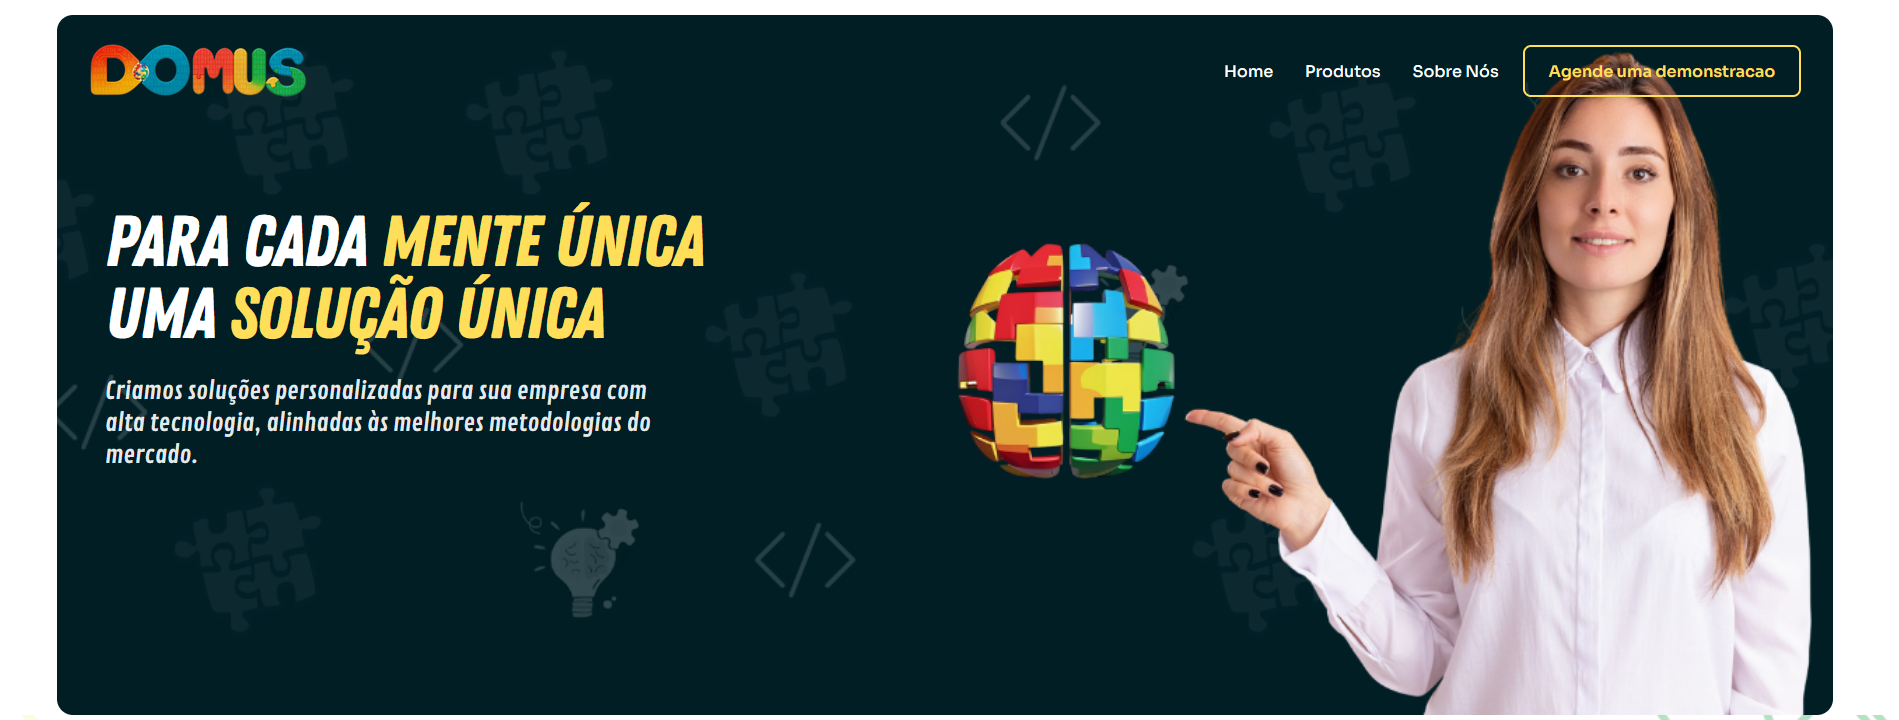
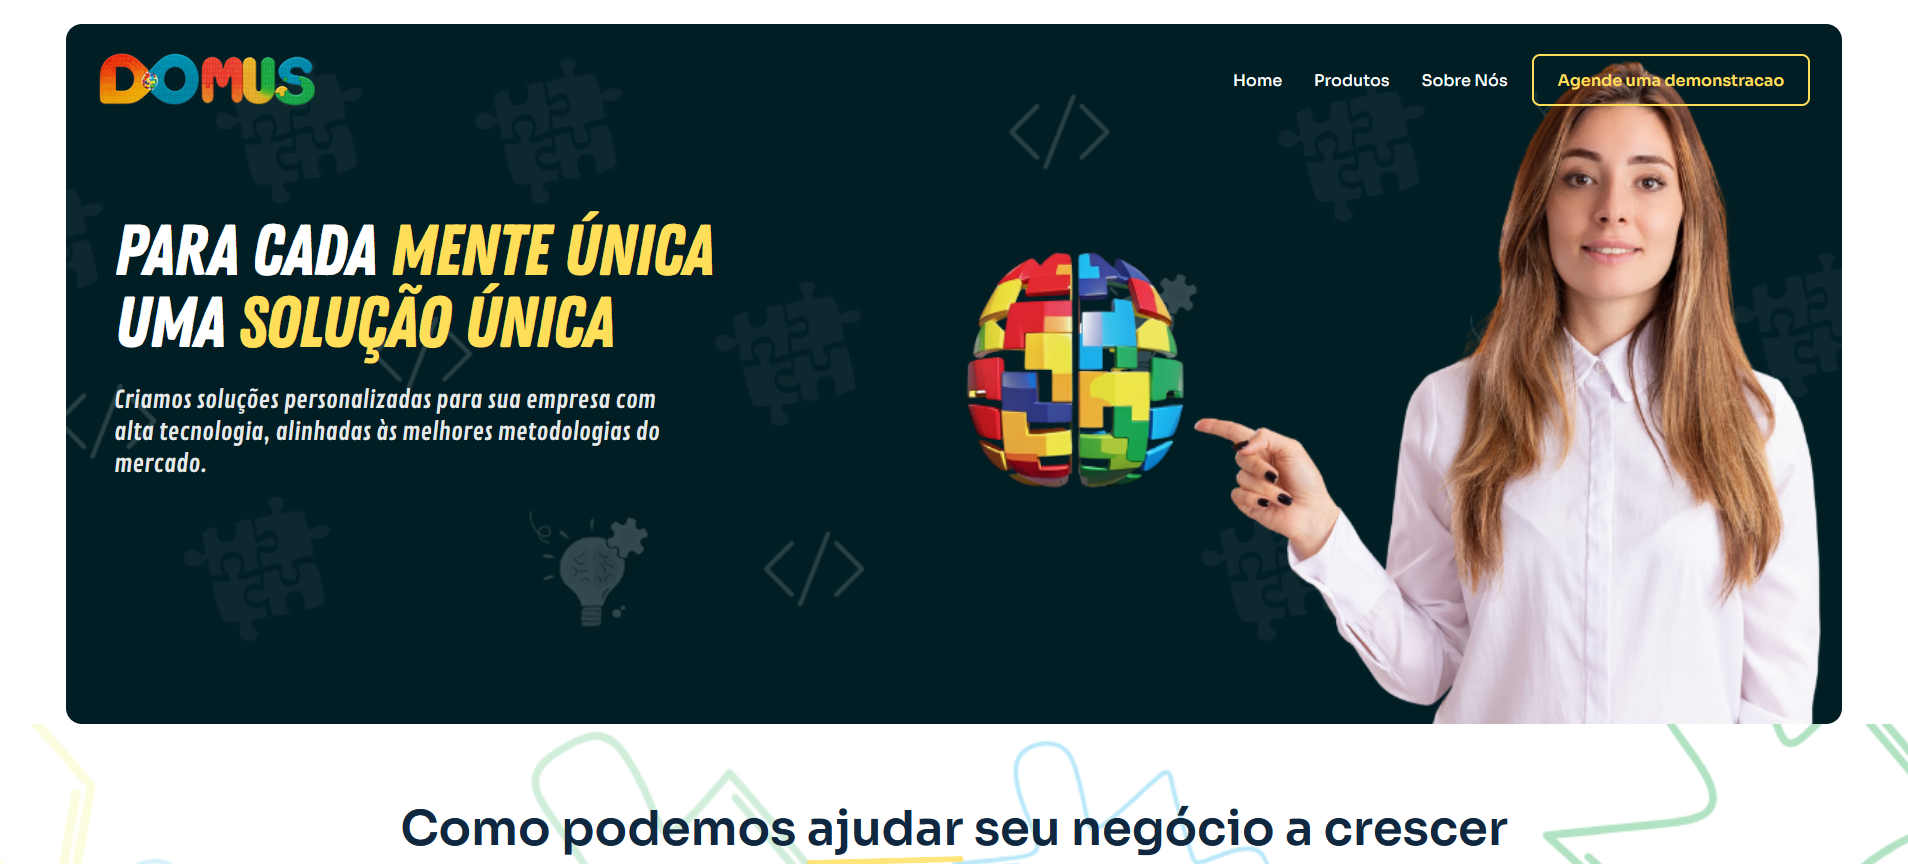
a

diff --git a/src/components/organisms/ProjectsSection.tsx b/src/components/organisms/ProjectsSection.tsx
@@ -1,6 +1,6 @@
-import { motion, useScroll, useTransform } from "framer-motion"
-import { ArrowUpRight } from "lucide-react"
-import { useRef } from "react"
+import { motion, useScroll, useTransform } from "framer-motion";
+import { ArrowUpRight } from "lucide-react";
+import { useRef } from "react";
 
 const projects = [
   {
@@ -9,7 +9,8 @@ const projects = [
     href: "https://domusdev.com.br/",
     domain: "domusdev.com.br",
     category: "Full Stack",
-    description: "Site institucional criado para uma software house especializada na criação de sistemas web sob medida. O projeto visa destacar os serviços, soluções de alta performance e excelência técnica no desenvolvimento.",
+    description:
+      "Site institucional criado para uma software house especializada na criação de sistemas web sob medida. O projeto visa destacar os serviços, soluções de alta performance e excelência técnica no desenvolvimento.",
   },
   {
     id: "autocom3",
@@ -17,7 +18,8 @@ const projects = [
     href: "https://autocom3.com.br/",
     domain: "autocom3.com.br",
     category: "Software ERP",
-    description: "Site institucional criado para empresa especializada em sistemas ERP para o varejo. A estrutura foi planejada para apresentar soluções, módulos e diferenciais da plataforma de forma clara e objetiva.",
+    description:
+      "Site institucional criado para empresa especializada em sistemas ERP para o varejo. A estrutura foi planejada para apresentar soluções, módulos e diferenciais da plataforma de forma clara e objetiva.",
   },
   {
     id: "sivis",
@@ -25,7 +27,8 @@ const projects = [
     href: "https://sivis.com.br/",
     domain: "sivis.com.br",
     category: "Cloud Platform",
-    description: "Site institucional criado para empresa especializada em sistemas de gestão para clubes. A estrutura foi pensada para apresentar soluções, diferenciais e módulos do sistema de forma clara e objetiva.",
+    description:
+      "Site institucional criado para empresa especializada em sistemas de gestão para clubes. A estrutura foi pensada para apresentar soluções, diferenciais e módulos do sistema de forma clara e objetiva.",
   },
   {
     id: "nexusbrazil",
@@ -33,64 +36,74 @@ const projects = [
     href: "https://nexusbrazil.com.br/",
     domain: "nexusbrazil.com.br",
     category: "Corporate",
-    description: "Site institucional desenvolvido para empresa de proteção veicular. O projeto destaca planos, benefícios, cobertura e formas de adesão, com foco em confiança, acessibilidade e navegação intuitiva.",
-  }
-]
+    description:
+      "Site institucional desenvolvido para empresa de proteção veicular. O projeto destaca planos, benefícios, cobertura e formas de adesão, com foco em confiança, acessibilidade e navegação intuitiva.",
+  },
+];
 
 const projectImages: Record<string, string> = {
   domusdev: "/Domus.png",
   autocom3: "/autocom3.png",
   sivis: "/sivis.png",
   nexusbrazil: "/nexus.png",
-}
+};
 
+const formatProjectNumber = (index: number) => `${index + 1}`.padStart(2, "0");
 export default function ProjectsSection() {
-  const targetRef = useRef<HTMLDivElement | null>(null)
+  const targetRef = useRef<HTMLDivElement | null>(null);
   const { scrollYProgress } = useScroll({
     target: targetRef,
-  })
+  });
 
-  // Horizontal translate value based on scroll progress. 
+  // Horizontal translate value based on scroll progress.
   // Adjust the "-60%" to ensure the last item is fully visible at the end of scroll.
-  const x = useTransform(scrollYProgress, [0, 1], ["0%", "-65%"])
+  const x = useTransform(scrollYProgress, [0, 1], ["0%", "-65%"]);
 
   return (
-    <section ref={targetRef} className="relative z-10 w-full h-[350vh] bg-[#0a0a0a]" id="projetos">
-      
+    <section
+      ref={targetRef}
+      className="relative z-10 w-full h-[350vh] bg-[#0a0a0a]"
+      id="projetos"
+    >
       {/* Sticky Container */}
       <div className="sticky top-0 h-screen flex flex-col justify-center overflow-hidden py-20">
-        
         {/* Fixed Title inside the sticky container */}
         <div className="mb-10 md:mb-16 flex flex-col items-start px-6 max-w-[90rem] mx-auto w-full">
-          <h2 className="text-zinc-500 font-mono text-xs sm:text-sm tracking-[0.3em] uppercase mb-4 text-left">Featured Work</h2>
+          <h2 className="text-zinc-500 font-mono text-xs sm:text-sm tracking-[0.3em] uppercase mb-4 text-left">
+            Featured Work
+          </h2>
           <h3 className="text-[12vw] sm:text-7xl lg:text-[8rem] font-black tracking-tighter uppercase text-white leading-none pb-4 text-left">
-            LATEST<br/><span className="text-transparent" style={{ WebkitTextStroke: "2px rgba(255,255,255,0.4)" }}>PROJECTS</span>
+            LATEST
+            <br />
+            <span
+              className="text-transparent"
+              style={{ WebkitTextStroke: "2px rgba(255,255,255,0.4)" }}
+            >
+              PROJECTS
+            </span>
           </h3>
         </div>
 
         {/* The Track that moves horizontally */}
-        <motion.div style={{ x }} className="flex gap-6 sm:gap-10 px-6 sm:px-12 md:px-24 xl:px-[calc((100vw-90rem)/2+1.5rem)] w-max pr-[20vw]">
+        <motion.div
+          style={{ x }}
+          className="flex gap-6 sm:gap-10 px-6 sm:px-12 md:px-24 xl:px-[calc((100vw-90rem)/2+1.5rem)] w-max pr-[20vw]"
+        >
           {projects.map((proj, idx) => (
             <div
               key={proj.name}
               className="group flex flex-col relative shrink-0 w-[85vw] md:w-[45vw] lg:w-[32vw] max-w-[450px] bg-[#111] border border-white/5 hover:border-[#cef441]/40 rounded-[2rem] overflow-hidden transition-colors select-none"
             >
               {/* Top Half: Image Container */}
-              <a 
-                href={proj.href} 
-                target="_blank" 
+              <a
+                href={proj.href}
+                target="_blank"
                 rel="noreferrer"
                 className="relative w-full h-[220px] sm:h-[260px] bg-zinc-900 border-b border-white/10 block overflow-hidden cursor-pointer"
               >
                 <div className="absolute inset-0 bg-[#cef441]/0 group-hover:bg-[#cef441]/10 transition-colors duration-500 z-10 pointer-events-none" />
-                
-                {/* Decorative Number */}
-                <span className="absolute left-6 top-6 text-6xl font-black italic tracking-tighter text-transparent z-30 opacity-30 select-none pointer-events-none" style={{ WebkitTextStroke: "1px rgba(255,255,255,1)" }}>
-                  0{idx + 1}
-                </span>
-
-                <img 
-                  src={projectImages[proj.id]} 
+                <img
+                  src={projectImages[proj.id]}
                   alt={proj.name}
                   className="absolute inset-0 w-full h-full object-cover grayscale opacity-50 group-hover:grayscale-0 group-hover:opacity-100 group-hover:scale-105 transition-all duration-700"
                   loading="lazy"
@@ -98,7 +111,14 @@ export default function ProjectsSection() {
               </a>
 
               {/* Bottom Half: Content Info */}
-              <div className="flex flex-col items-start w-full p-6 sm:p-8 relative z-20">
+              <div className="flex flex-col items-start w-full p-6 sm:p-8 relative z-20 overflow-hidden">
+                <span
+                  aria-hidden="true"
+                  className="absolute bottom-2 right-4 sm:bottom-3 sm:right-6 lg:bottom-4 lg:right-8 text-[5.5rem] sm:text-[6.5rem] lg:text-[8rem] font-black italic tracking-[-0.08em] text-transparent opacity-60 select-none pointer-events-none leading-none"
+                  style={{ WebkitTextStroke: "1px rgba(206,244,65,0.2)" }}
+                >
+                  {formatProjectNumber(idx)}
+                </span>
                 <div className="flex items-center justify-between w-full mb-6">
                   <div className="flex flex-wrap items-center gap-2">
                     <span className="text-[9px] text-zinc-500 uppercase tracking-[0.2em] font-mono border border-white/10 px-3 py-1.5 rounded-full">
@@ -108,16 +128,19 @@ export default function ProjectsSection() {
                       {proj.domain}
                     </span>
                   </div>
-                  
-                  <a href={proj.href} target="_blank" rel="noreferrer" className="shrink-0 w-10 h-10 rounded-full flex items-center justify-center bg-white/5 group-hover:bg-[#cef441] text-white group-hover:text-black transition-colors hover:scale-110">
+
+                  <a
+                    href={proj.href}
+                    target="_blank"
+                    rel="noreferrer"
+                    className="shrink-0 w-10 h-10 rounded-full flex items-center justify-center bg-white/5 group-hover:bg-[#cef441] text-white group-hover:text-black transition-colors hover:scale-110"
+                  >
                     <ArrowUpRight size={18} />
                   </a>
                 </div>
-                
                 <h4 className="text-3xl sm:text-4xl lg:text-[2.5rem] font-black uppercase tracking-tighter italic leading-none text-white group-hover:text-[#cef441] transition-colors mb-4">
                   {proj.name}
                 </h4>
-                
                 <p className="text-sm text-zinc-400 font-light leading-relaxed">
                   {proj.description}
                 </p>
@@ -126,8 +149,6 @@ export default function ProjectsSection() {
           ))}
         </motion.div>
       </div>
-      
     </section>
-  )
+  );
 }
-

diff --git a/src/components/organisms/SummarySection.tsx b/src/components/organisms/SummarySection.tsx
@@ -1,46 +1,68 @@
-import { motion } from "framer-motion"
+import { motion } from "framer-motion";
 
 type Stat = {
-  label: string
-  value: string
-  description: string
-}
+  label: string;
+  value: string;
+  description: string;
+};
 
 type SummarySectionProps = {
-  title: string
-  subtitle: string
-  statement: string
-  summary: readonly string[]
-  stats?: readonly Stat[]
+  title: string;
+  subtitle: string;
+  statement: string;
+  summary: readonly string[];
+  stats?: readonly Stat[];
+};
+
+function getStatValueClass(value: string) {
+  if (value.length >= 14) {
+    return "text-[clamp(0.85rem,2vw,1.45rem)]";
+  }
+
+  if (value.length >= 11) {
+    return "text-[clamp(0.95rem,2.3vw,1.7rem)]";
+  }
+
+  return "text-[clamp(1.15rem,2.8vw,2.25rem)]";
 }
 
-export default function SummarySection({ title, subtitle, statement, summary, stats }: SummarySectionProps) {
-  const words = title.split(' ')
-  const firstWord = words[0]
-  const restWords = words.slice(1).join(' ')
+export default function SummarySection({
+  title,
+  subtitle,
+  statement,
+  summary,
+  stats,
+}: SummarySectionProps) {
+  const words = title.split(" ");
+  const firstWord = words[0];
+  const restWords = words.slice(1).join(" ");
 
   return (
-    <section className="relative z-10 px-6 max-w-[90rem] mx-auto min-h-[100svh] flex flex-col justify-center py-10" id="resumo">
-      
+    <section
+      className="relative z-10 px-6 max-w-[90rem] mx-auto min-h-[100svh] flex flex-col justify-center py-10"
+      id="resumo"
+    >
       {/* Container wrapper for max compactness without vertical stretching */}
       <div className="flex flex-col gap-8 lg:gap-12 w-full max-h-fit">
-        
         {/* Compact Header */}
         <div className="flex flex-col items-start w-full border-b border-white/10 pb-4">
           <span className="text-[10px] sm:text-xs text-zinc-500 uppercase tracking-widest font-mono mb-2">
             {subtitle}
           </span>
           <h2 className="text-6xl sm:text-7xl lg:text-8xl font-black uppercase tracking-tighter text-white leading-none text-left">
-            {firstWord}{' '}
+            {firstWord}{" "}
             {restWords && (
-              <span className="text-transparent italic" style={{ WebkitTextStroke: "2px #cef441" }}>
+              <span
+                className="text-transparent italic"
+                style={{ WebkitTextStroke: "2px #cef441" }}
+              >
                 {restWords}
               </span>
             )}
           </h2>
         </div>
 
-        <motion.div 
+        <motion.div
           initial={{ opacity: 0, y: 30 }}
           whileInView={{ opacity: 1, y: 0 }}
           viewport={{ once: true, margin: "0px" }}
@@ -52,10 +74,13 @@ export default function SummarySection({ title, subtitle, statement, summary, st
             <h3 className="text-2xl lg:text-3xl font-black uppercase text-white leading-tight tracking-tighter">
               {statement}
             </h3>
-            
+
             <div className="flex flex-col gap-4">
               {summary.map((paragraph, idx) => (
-                <p key={idx} className="text-zinc-400 font-light leading-relaxed text-sm sm:text-base">
+                <p
+                  key={idx}
+                  className="text-zinc-400 font-light leading-relaxed text-sm sm:text-base"
+                >
                   {paragraph}
                 </p>
               ))}
@@ -64,17 +89,31 @@ export default function SummarySection({ title, subtitle, statement, summary, st
 
           {/* Right Column: Mini Stats Grid */}
           <div className="lg:col-span-5 grid grid-cols-2 gap-4">
-            {stats && stats.length > 0 && stats.map((stat, idx) => (
-              <div key={idx} className="flex flex-col justify-center gap-1 p-5 rounded-2xl border border-white/5 bg-[#0a0a0a] shadow-[inset_0_1px_0_rgba(255,255,255,0.02)] hover:border-[#cef441]/30 transition-colors group">
-                <span className="text-[9px] sm:text-[10px] text-zinc-500 font-mono uppercase tracking-widest">{stat.label}</span>
-                <span className="text-2xl sm:text-3xl lg:text-4xl font-black text-white tracking-tighter uppercase group-hover:text-[#cef441] transition-colors leading-[0.9] mt-1">{stat.value}</span>
-                <span className="text-[10px] lg:text-xs text-zinc-400 font-light leading-tight mt-1">{stat.description}</span>
-              </div>
-            ))}
+            {stats &&
+              stats.length > 0 &&
+              stats.map((stat, idx) => (
+                <div
+                  key={idx}
+                  className="flex flex-col justify-center gap-1 p-5 rounded-2xl border border-white/5 bg-[#0a0a0a] shadow-[inset_0_1px_0_rgba(255,255,255,0.02)] hover:border-[#cef441]/30 transition-colors group"
+                >
+                  <span className="text-[9px] sm:text-[10px] text-zinc-500 font-mono uppercase tracking-widest">
+                    {stat.label}
+                  </span>
+                  <span
+                    className={`${getStatValueClass(
+                      stat.value,
+                    )} font-black text-white tracking-tight whitespace-nowrap group-hover:text-[#cef441] transition-colors leading-[0.9] mt-1`}
+                  >
+                    {stat.value}
+                  </span>
+                  <span className="text-[10px] lg:text-xs text-zinc-400 font-light leading-tight mt-1">
+                    {stat.description}
+                  </span>
+                </div>
+              ))}
           </div>
         </motion.div>
       </div>
-
     </section>
-  )
+  );
 }
